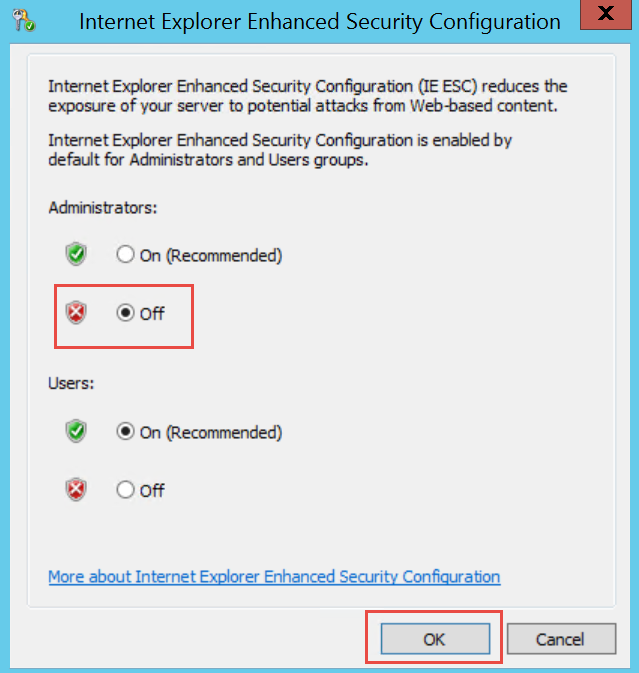
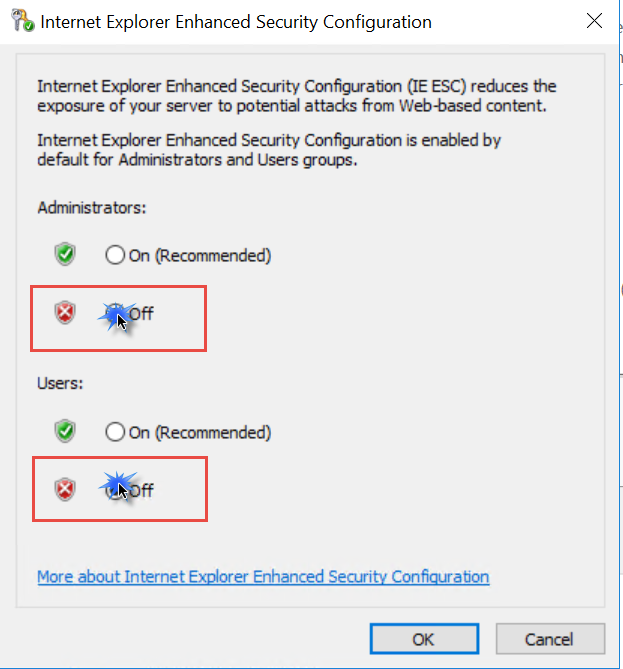
update screenshots

diff --git a/HOL/Setup.md b/HOL/Setup.md
@@ -90,17 +90,17 @@ Duration: 20 minutes
 
     ![IE Enhanced Security Configuration is set to Off, and is selected.](images/Setup/image15.png "IE Enhanced Security Configuration option")
 
-18. Change to **Off** for Administrators and select **OK**
+18. Change to **Off** for Administrators and  Users then select **OK**
 
-    ![In the Internet Explorer Enhanced Security Configuration dialog box, Administrators is set to Off, and Users is set to On.](images/Setup/image16.png "Internet Explorer Enhanced Security Configuration dialog box")
+    ![In the Internet Explorer Enhanced Security Configuration dialog box, Administrators is set to Off, and Users is set to Off.](images/Setup/image16.png "Internet Explorer Enhanced Security Configuration dialog box")
 
 ### Task 2: Download hands-on support files to LABVM
 
-1.  Download the zipped Hands-on Lab Step by Step student files by clicking on this link:
+1.  Download the zipped Hands-on Lab Step by Step student files at this link:
 
     <https://www.dropbox.com/s/sx91sjcn63t980j/StudentFiles.zip?dl=1>
 
-2.  Copy the zip file to a new directory **C:\\HOL** on LABVM and then extract the files.
+2.  Extract the files to a directory here **C:\\HOL** on LABVM.
 
 ### Task 3: Install SQL Server Express on LABVM
 
@@ -188,16 +188,7 @@ In this task, you will select a **Primary** and **Secondary** Azure Region that 
 7.  Once all the resource groups have been created, you should review all the resource groups for this HOL. **It is critical to ensure that the spelling is correct and that they are in the correct Azure Regions (Primary or Secondary).**
 
 **Note:** If for some reason there is an error, you should delete the resource group with the error and recreate it.
-|    |            |       
-|----------|:-------------:|
-| **Resource Group Name** | **Location** |
-| **BCDRAzureAutomation** | Any available site other than your Primary or Secondary |
-| **BCDRAzureSiteRecovery** | Secondary |
-| **BCDRIaaSPrimarySite** | Primary |
-| **BCDRIaaSSecondarySite** | Secondary |
-| **BCDROnPremPrimarySite** | Primary | 
-| **BCDRPaaSPrimarySite** | Primary |
-| **BCDRPaaSSecondarySite** | Secondary | 
+
 
 8.  Here is the Azure Portal with each of the resource groups created in the correct Azure Region
 
